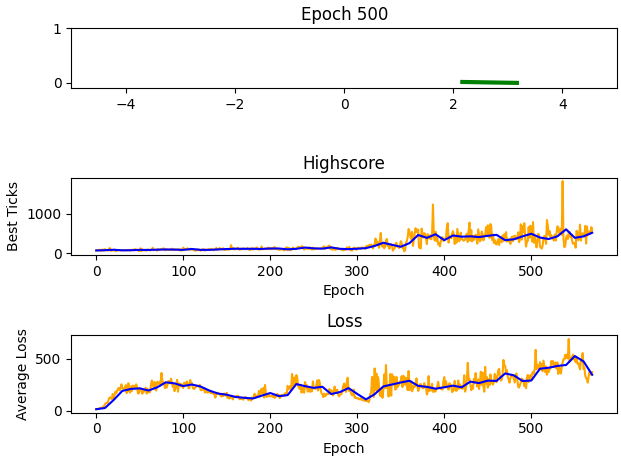
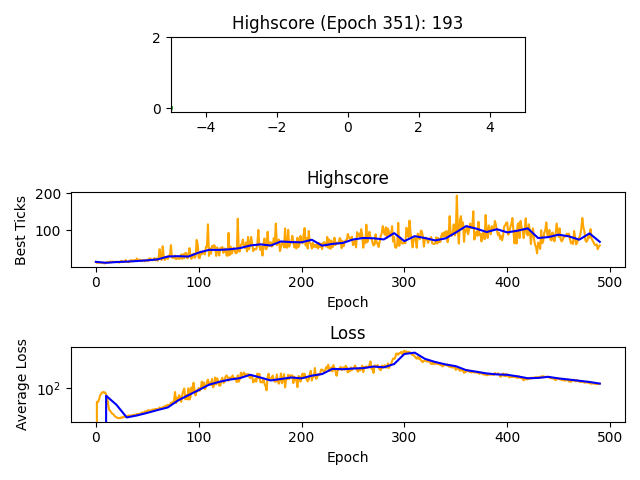
Proper length support, new highscore visualization, revisions, QOL

diff --git a/environment.py b/environment.py
@@ -10,13 +10,16 @@ from torch import nn
 class balanceStick:
     def __init__(self):
         # Units: meters, kg, seconds
-        self.length = 1
+        self.length = 2
         self.mass = 1
         self.friction_coef = .2
         self.gravity = 9.8
         self.bounds = (-5, 5)
-        self.tickrate = 64
+        self.tickrate = 32
         self.reset()
+
+    def _get_state(self):
+        return torch.tensor([[self.x, self.angle, self.velocity]]).float()
 
     def reset(self):
         self.angle = (np.pi / 8) * (np.pi * (np.random.rand() - .5)) + (np.pi / 2)  # Tilt up to pi/8
@@ -25,7 +28,7 @@ class balanceStick:
         self.tip_ang_vel = 0  # 6 * (np.random.rand() - .5)  # -3 to 3
 
         # Return game state
-        return torch.tensor([[self.x, self.angle]]).float()
+        return self._get_state()
 
     def tick(self, force_x):
         # Apply force
@@ -61,16 +64,16 @@ class balanceStick:
         self.angle = self.angle % (2 * np.pi)
 
         # Return game state
-        return torch.tensor([[self.x, self.angle]]).float()
+        return self._get_state()
 
     def render(self, ax=None, state=None):
         if state is not None:
-            x, angle = state
+            x, angle = state[:2]
         else:
             x, angle = self.x, self.angle
 
-        x = (x, x + np.cos(angle))
-        y = (0, np.sin(angle))
+        x = (x, x + self.length * np.cos(angle))
+        y = (0, self.length * np.sin(angle))
         if ax is not None:
             ax.plot(x, y, 'g-', linewidth=3, markersize=10)
             ax.set_aspect('equal', 'box')
@@ -81,7 +84,7 @@ class balanceStick:
 
 class Agent(nn.Module):
     """Thin, simple NN model"""
-    def __init__(self, input_dim, output_dim, hidden_dim=20):
+    def __init__(self, input_dim, output_dim, hidden_dim=10):
         super().__init__()
 
         self.layers = nn.Sequential(
@@ -102,30 +105,38 @@ class Agent(nn.Module):
 if __name__ == "__main__":
     # Params
     show_preview = False
-    show_best_replay = True
+    show_best_replay = False
     best_replay_interval = 100
+    show_new_highscores = True
 
     show_training_plot = True
     show_avg_loss = True
     stat_interval = 10
 
-    show_plt = show_preview or show_best_replay or show_training_plot or show_avg_loss
+    show_plt = show_preview or show_best_replay or show_new_highscores or show_training_plot or show_avg_loss
     cli_print_interval = 50
+    save_fig = True
+
+    visualization_speedup = 3
 
     # Env setup
     env = balanceStick()
     if show_plt:
-        num_subplots = show_preview + show_best_replay + show_training_plot + show_avg_loss
+        num_subplots = show_preview + show_best_replay + show_new_highscores + show_training_plot + show_avg_loss
         fig, axs = plt.subplots(num_subplots, 1)
         fig.tight_layout()
         plt.ion()
         plt.show()
 
     # Model setup
-    model = Agent(2, 5)
+    actions = np.array([-400, -200, -100, -50, 0, 50, 100, 200, 400])
+    num_features = env._get_state().shape[1]
+    num_actions = len(actions)
+    num_hidden = 20
+    model = Agent(num_features, num_actions, num_hidden)
     model.train()
     optimizer = torch.optim.AdamW(model.parameters())
-    q_model = Agent(2, 5)
+    q_model = Agent(num_features, num_actions, num_hidden)
     q_model.eval()
 
     # Hyperparams
@@ -137,11 +148,11 @@ if __name__ == "__main__":
     batch_size = 128
     q_lr = .7
 
-    epsilon = max_epsilon
     best_ticks = []
     avg_loss = []
+    highscore = 0
+    epsilon = max_epsilon
     replay_memory = deque(maxlen=50_000)
-    task = None
 
     # epoch = -1
     # while True:
@@ -169,7 +180,6 @@ if __name__ == "__main__":
                     logit_max = torch.argmax(logits, 1)
                 else:
                     logit_max = np.random.randint(0, 5)
-                actions = np.array([-200, -100, 0, 100, 200])
                 force = actions[logit_max]
 
                 # Tick
@@ -242,9 +252,22 @@ if __name__ == "__main__":
             for state in max_tick_memory:
                 axs[plot_idx].cla()
                 env.render(ax=axs[plot_idx], state=state)
-                axs[plot_idx].set_title(f'Epoch {epoch}')
-                plt.pause(1/env.tickrate)
+                axs[plot_idx].set_title(f'Epoch {epoch} Best Run: {max_ticks}')
+                plt.pause(1/(env.tickrate * visualization_speedup))
         if show_best_replay:
+            plot_idx += 1
+
+        # Show new highscores
+        if max_ticks > highscore:
+            highscore = max_ticks
+            highscore_memory = max_tick_memory
+            if show_new_highscores:
+                for state in highscore_memory:
+                    axs[plot_idx].cla()
+                    env.render(ax=axs[plot_idx], state=state)
+                    axs[plot_idx].set_title(f'Highscore (Epoch {epoch}): {highscore}')
+                    plt.pause(1/(env.tickrate * visualization_speedup))
+        if show_new_highscores:
             plot_idx += 1
 
         # Best ticks plot
@@ -265,7 +288,11 @@ if __name__ == "__main__":
             plot_idx += 1
 
         # Average loss plot
-        avg_loss[-1] = sum(avg_loss[-1]) / len(avg_loss[-1])
+        try:
+            avg_loss[-1] = sum(avg_loss[-1]) / len(avg_loss[-1])
+        except:
+            # NA
+            avg_loss[-1] = 0
         if show_avg_loss and epoch % stat_interval == 0:
             smoothed_loss = []
             smoothed_loss.append(avg_loss[0])
@@ -275,9 +302,13 @@ if __name__ == "__main__":
             axs[plot_idx].cla()
             axs[plot_idx].plot(avg_loss, color='orange')
             axs[plot_idx].plot(range(0, len(avg_loss), 10),
-                         smoothed_loss[:-1],
-                         color='blue')
-            axs[plot_idx].set(xlabel='Epoch', ylabel='Average Loss', title='Loss')
+                               smoothed_loss[:-1],
+                               color='blue')
+            axs[plot_idx].set(xlabel='Epoch',
+                              ylabel='Average Loss',
+                              title='Loss',
+                              yscale='log')
+            axs[plot_idx].set_yscale('log')
         if show_avg_loss:
             plot_idx += 1
 
@@ -285,6 +316,9 @@ if __name__ == "__main__":
             plt.pause(1e-10)
             fig.tight_layout()
             plt.show()
+
+        if save_fig:
+            fig.savefig('ui.png')
 
     # while True:
     #     try:

diff --git a/README.md b/README.md
@@ -1,5 +1,7 @@
 # Basic DeepQ Learning Implementation
+Implementation of a cartpole environment and deep-q learning implementation.
 
-Implementation of a cartpole environment and deep-q learning implementation for the environment.
+![UI after 500 epochs, eps ~= .03, tickrate = 32](./ui.png)
 
-![UI after 500 epochs, eps!=.01](./ui.png)
+## Interesting Emergent Behavior
+Within the first 30 epochs, the network found that slamming into the 'wall' of the simulation space while tilting the pole toward the center could extend the time before losing balance.  This behavior continued until epoch ~200, when the network began moving back and forth to keep the pole upright.  Additionally, the agent began clearly favoring the middle of the simulation around epoch ~250.  The loss spike is likely the result of becoming stuck in an unfavorable strategy, likely that of ignoring movement toward the center.  The ability to recover from this spike speaks to the robustness of deep-q learning.  Although losses must be interpreted differently in deep-q learning when compared to traditional networks, these trends are clearly displayed on the loss graph.  The training proceeded as normal from there onward.  The high loss magnitude is owed to including velocity in the state vector, which frequently has magnitudes `>500`.  When trained for longer, without epsilon, the final model can likely remain upright indefinitely.
